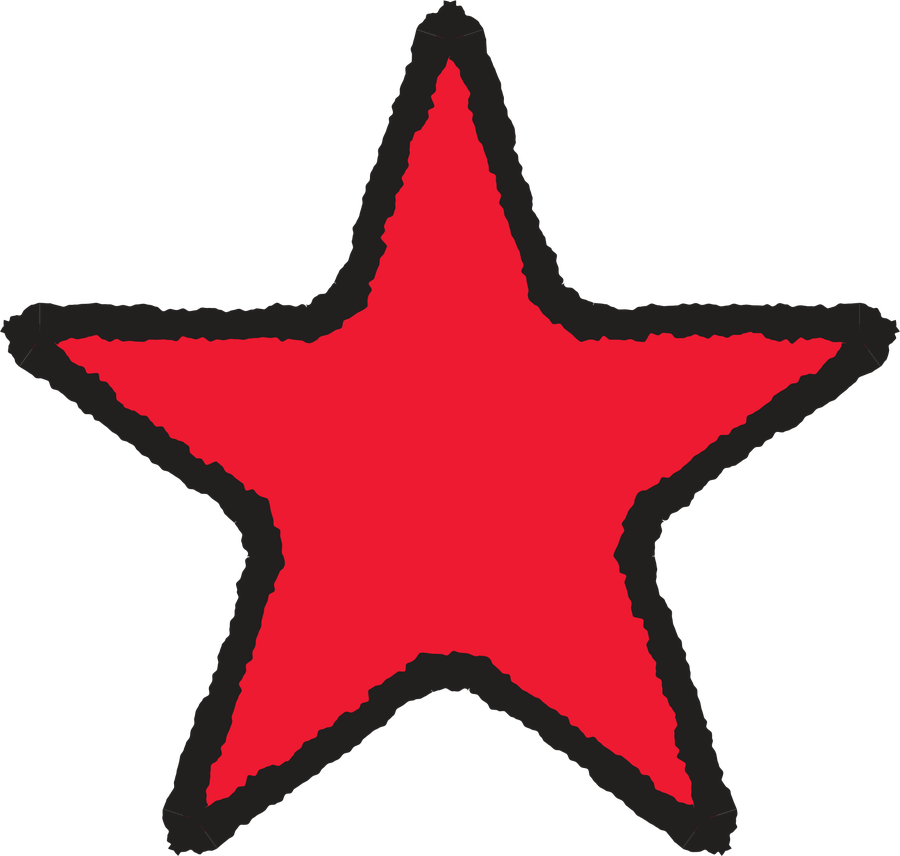
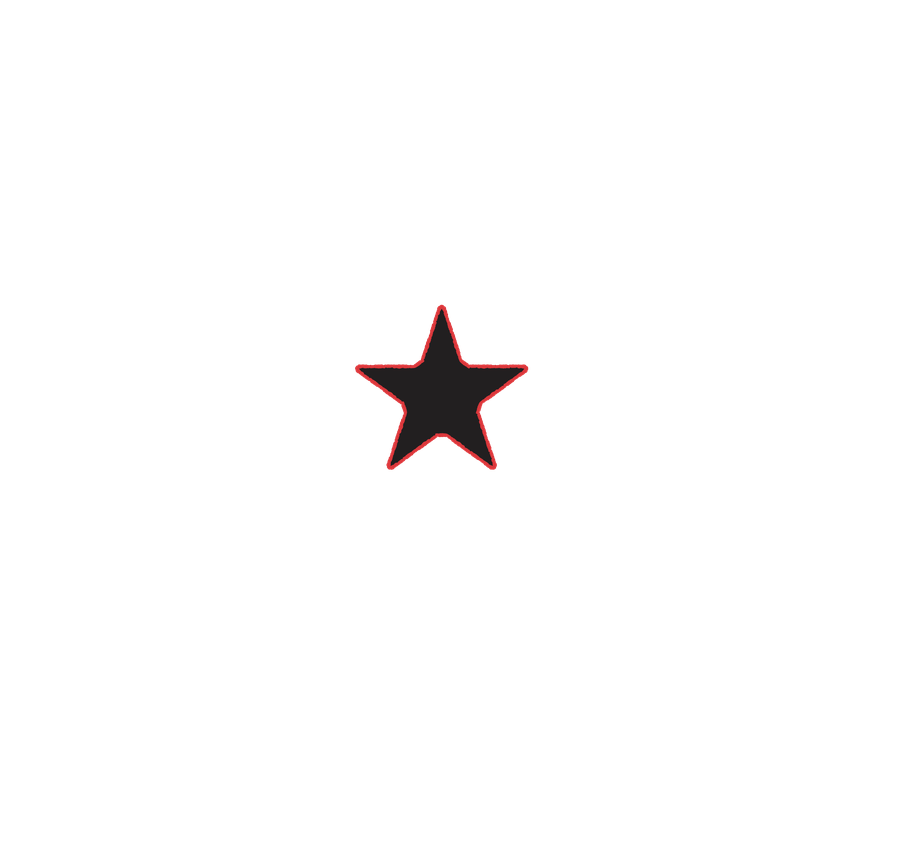
Update TOR + STAR patch art, fix CHAIN's thin-sliver sizing, add BACK tag for large mode
- Swapped in new TOR (tor.png) and STAR (str.png) patch art from the
  "new patches" folder.
- CHAIN's native aspect ratio (358x900, far more extreme than any other
  patch) rendered as a thin sliver inside the shared square grid cell --
  object-fit:contain has no way to fill a square with a 0.4:1 image
  without either cropping content or overflowing neighbors. Gave it a
  2-row-tall grid cell instead (grid-row: span 2) so it renders near
  full size with all 3 links intact and nothing overlapping.
- Large airbrush mode's placement is fixed to "Back" with no picker
  (only one option), but previously showed nothing at all once a
  design was selected. Added a plain read-only "Back" tag in the same
  spot the small-mode picker rows appear, so it's clear where the
  design will go.

diff --git a/customer/templates/customer/pickup_join_nike_studio_fleece.html b/customer/templates/customer/pickup_join_nike_studio_fleece.html
@@ -110,6 +110,11 @@
     .pill.active { color: #fff; background: var(--accent-a); }
     .patch-grid { display: grid; grid-template-columns: repeat(4, minmax(0,1fr)); gap: 6px; margin-bottom: 6px; }
     .patch-card { padding: 3px; border-color: transparent; display: flex; flex-direction: column; align-items: center; justify-content: center; gap: 5px; }
+    /* CHAIN's art is unusually tall/narrow (~0.4:1) -- in a square cell it
+       reads as a thin sliver next to the other patches. Giving it a
+       two-row-tall cell instead lets it fill the box at full size without
+       cropping any of the 3 links or overflowing into neighboring cards. */
+    .patch-card[data-id="p6"] { grid-row: span 2; aspect-ratio: auto; }
     .patch-card img { width: 100%; aspect-ratio: 1; object-fit: contain; filter: drop-shadow(0 0 2px var(--ink-outline)) drop-shadow(0 0 2px var(--ink-outline)); transition: filter .15s; }
     .patch-card.selected { border-color: transparent; }
     .patch-card.selected img { filter: drop-shadow(0 0 8px var(--accent-a)); }
@@ -126,6 +131,7 @@
     .placement-btns { display: flex; flex-wrap: wrap; gap: 5px; flex: 1; }
     .placement-btn { border: 1px solid var(--border); border-radius: 20px; font-size: 10px; font-weight: 700; padding: 5px 9px; background: transparent; color: var(--muted); cursor: pointer; font-family: Arial, Helvetica, sans-serif; }
     .placement-btn.active { background: var(--accent-a); border-color: var(--accent-a); color: #fff; }
+    .placement-tag { display: inline-block; border-radius: 20px; font-size: 10px; font-weight: 700; padding: 5px 9px; background: var(--accent-a); color: #fff; }
 
     /* Footer CTA */
     .footer { padding: 8px 20px 40px; }
@@ -415,6 +421,26 @@
   function renderDesignPlacementRows() {
     const list = document.getElementById('designPlacementList');
     list.innerHTML = '';
+    if (state.airbrushMode === 'large') {
+      // Only one placement exists for the large design -- show it as a
+      // plain read-only tag rather than a picker with a single option.
+      if (state.airbrushSelections.length) {
+        const sel = state.airbrushSelections[0];
+        const card = document.querySelector(`.design-card[data-id="${sel.id}"]`);
+        if (card) {
+          const img = card.querySelector('img');
+          const row = document.createElement('div');
+          row.className = 'placement-row';
+          row.innerHTML = `
+            <div class="placement-thumb"><img src="${img.src}" alt="${img.alt}"></div>
+            <div class="placement-label">${img.alt}</div>
+            <div class="placement-btns"><span class="placement-tag">Back</span></div>
+          `;
+          list.appendChild(row);
+        }
+      }
+      return;
+    }
     if (state.airbrushMode !== 'small') return;
     state.airbrushSelections.forEach(sel => {
       const card = document.querySelector(`.design-card[data-id="${sel.id}"]`);
